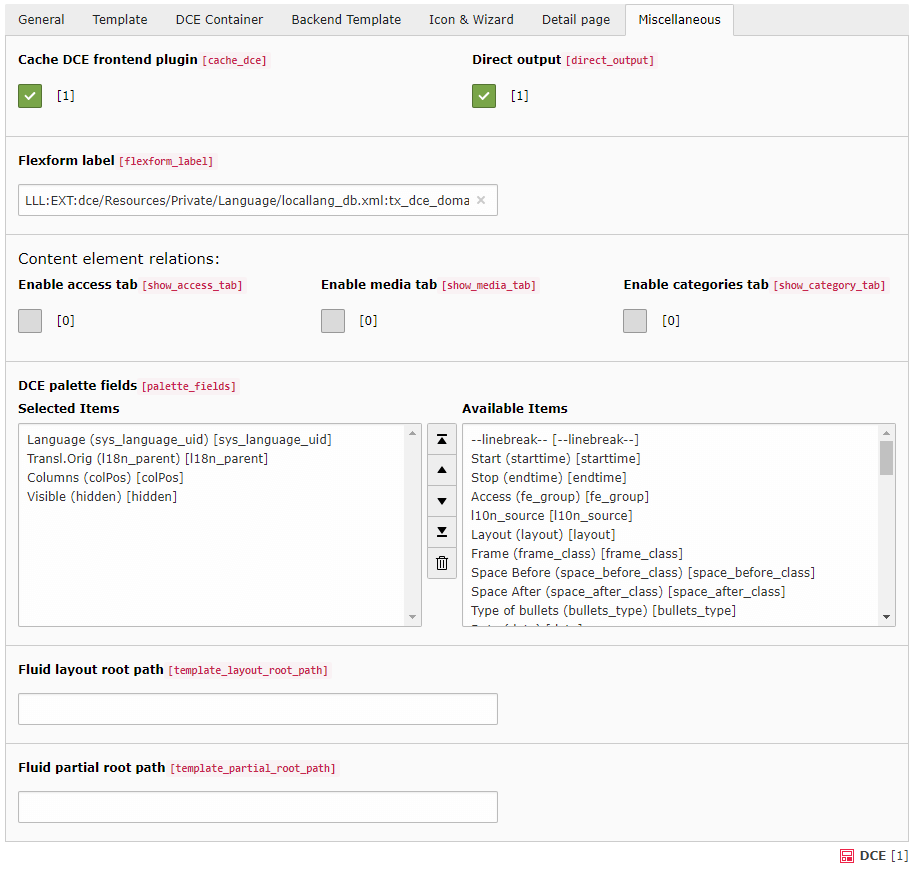
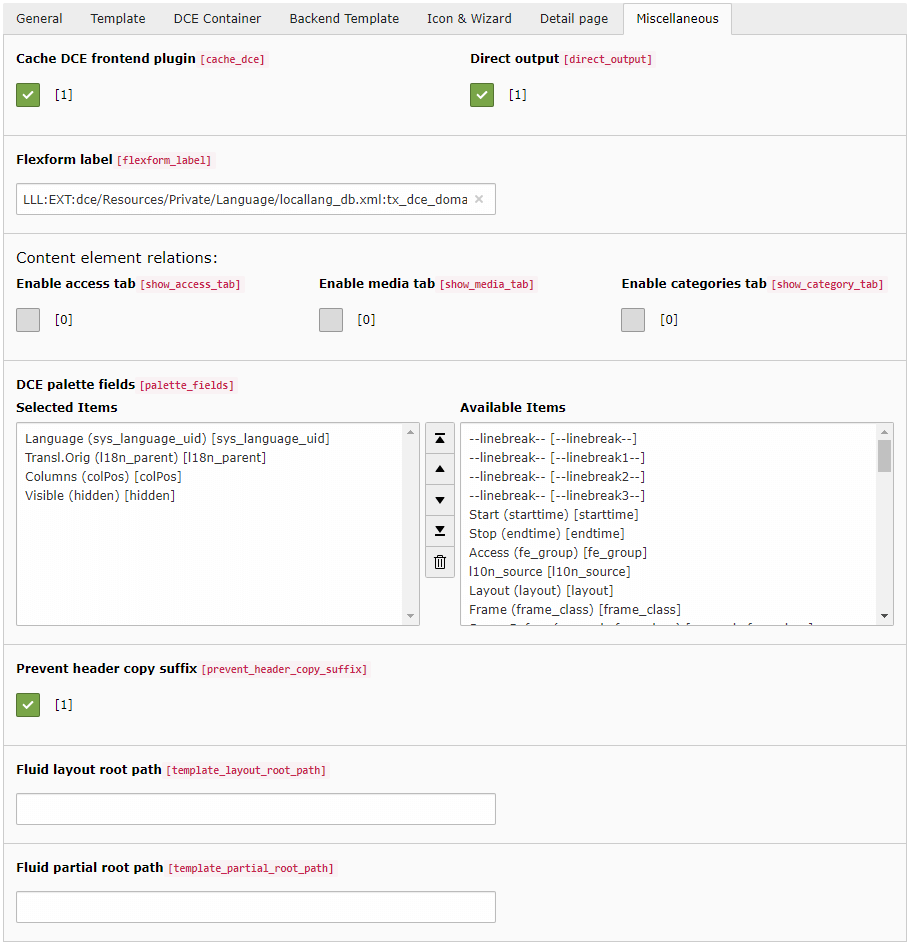
[FEATURE] New "Prevent header copy suffix" DCE option
Resolves: https://forge.typo3.org/issues/81248

diff --git a/Classes/Hooks/AfterSaveHook.php b/Classes/Hooks/AfterSaveHook.php
@@ -95,10 +95,22 @@ class AfterSaveHook
         }
         $this->uid = $this->getUid($id, $table, $status, $pObj);
 
-        // Write flexform values to TCA, when enabled
         if ($table === 'tt_content') {
             $contentRow = $this->dataHandler->recordInfo('tt_content', $this->uid, '*');
 
+            // Prevent "Copy (1)" suffix when copying tt_content based on DCE
+            if ($dceUid = DceRepository::extractUidFromCTypeOrIdentifier($contentRow['CType'])) {
+                $origUid = $contentRow['t3_origuid'];
+                if ($origUid) {
+                    $dceRow = $this->dataHandler->recordInfo('tx_dce_domain_model_dce', $dceUid, '*');
+                    if ($dceRow['prevent_header_copy_suffix']) {
+                        $origRecord = $this->dataHandler->recordInfo('tt_content', $origUid, 'header');
+                        $this->dataHandler->updateDB('tt_content', $this->uid, ['header' => $origRecord['header']]);
+                    }
+                }
+            }
+
+            // Write flexform values to TCA, when enabled
             if ($dceUid = DceRepository::extractUidFromCTypeOrIdentifier($contentRow['CType'])) {
                 $dceRow = $this->dataHandler->recordInfo('tx_dce_domain_model_dce', $dceUid, '*');
                 $dceIdentifier = !empty($dceRow['identifier']) ? 'dce_' . $dceRow['identifier']

diff --git a/Configuration/TCA/tx_dce_domain_model_dce.php b/Configuration/TCA/tx_dce_domain_model_dce.php
@@ -35,7 +35,7 @@ $showItems = <<<TEXT
 --div--;${ll}tx_dce_domain_model_dce.miscellaneous,
     --palette--;;misc,flexform_label,hide_default_ce_wrap,
     --palette--;${ll}tx_dce_domain_model_dce.contentRelationsPalette;content_relations,
-    palette_fields,template_layout_root_path,template_partial_root_path
+    palette_fields,prevent_header_copy_suffix,template_layout_root_path,template_partial_root_path
 TEXT;
 
 $dceTca = [
@@ -640,6 +640,14 @@ $dceTca = [
                 'default' => 'sys_language_uid,l18n_parent,colPos,spaceBefore,spaceAfter,section_frame,hidden',
                 'minitems' => 0,
                 'maxitems' => 999
+            ],
+        ],
+        'prevent_header_copy_suffix' => [
+            'exclude' => 0,
+            'label' => $ll . 'tx_dce_domain_model_dce.preventHeaderCopySuffix',
+            'config' => [
+                'type' => 'check',
+                'default' => 1
             ],
         ],
         'direct_output' => [

diff --git a/Documentation/UsersManual/Miscellaneous.rst b/Documentation/UsersManual/Miscellaneous.rst
@@ -20,6 +20,7 @@ the frontend must be initialized in the localconf.php with calling the method ``
 
 This option takes effect if the showAction of the DceController is cached or non-cached.
 
+
 Direct output
 ^^^^^^^^^^^^^
 
@@ -29,6 +30,7 @@ This brings a significant performances boost and removes any wrappings defined b
 (<div id="c123" ...>).
 
 **This option is enabled by default, separately for each DCE.**
+
 
 FlexForm label
 ^^^^^^^^^^^^^^
@@ -45,12 +47,14 @@ Disables the "div.csc-default" wrapping
 Only available, when ``EXT:css_styled_content`` is installed. This option disables the wrapping of the content element
 with the ``<div class="csc-default" />`` which can be sometimes necessary.
 
+
 Enable access tab in backend
 ^^^^^^^^^^^^^^^^^^^^^^^^^^^^
 
 If this option is activated a tab with the access rights is shown in the backend. Here you can define detailed,
 when the DCE is to be shown and who is allowed to see the DCE. When this checkbox is enabled, the enabled fields
 disappear from palette fields automatically, if set.
+
 
 Enable media tab in backend
 ^^^^^^^^^^^^^^^^^^^^^^^^^^^
@@ -61,6 +65,7 @@ media (FAL) field is shown in the backend.
 You can access ``{contentObject.media}`` variable in Fluid template.
 It contains an array of ``\TYPO3\CMS\Core\Resource\FileReference``.
 
+
 Enable categories tab in backend
 ^^^^^^^^^^^^^^^^^^^^^^^^^^^^^^^^
 
@@ -69,12 +74,21 @@ If this option is activated a tab with category picker is shown in the backend.
 You can access ``{contentObject.categories}`` variable in Fluid template.
 It contains an array of ``\TYPO3\CMS\Extbase\Domain\Model\Category``.
 
+
 DCE palette fields
 ^^^^^^^^^^^^^^^^^^
 
 This is a list of fields which should be shown in the head area of this DCE in the backend.
 
 The default value is this: ``sys_language_uid, l18n_parent, colPos, spaceBefore, spaceAfter, section_frame, hidden``
+
+
+Prevent header copy suffix
+^^^^^^^^^^^^^^^^^^^^^^^^^^
+
+If this checkbox is checked (enabled by default) a copied tt_content record, based on this DCE, will not append
+"Copy (1)" to record's header. It uses the header contents of the original content record.
+
 
 Fluid layout and partial root path
 ^^^^^^^^^^^^^^^^^^^^^^^^^^^^^^^^^^
